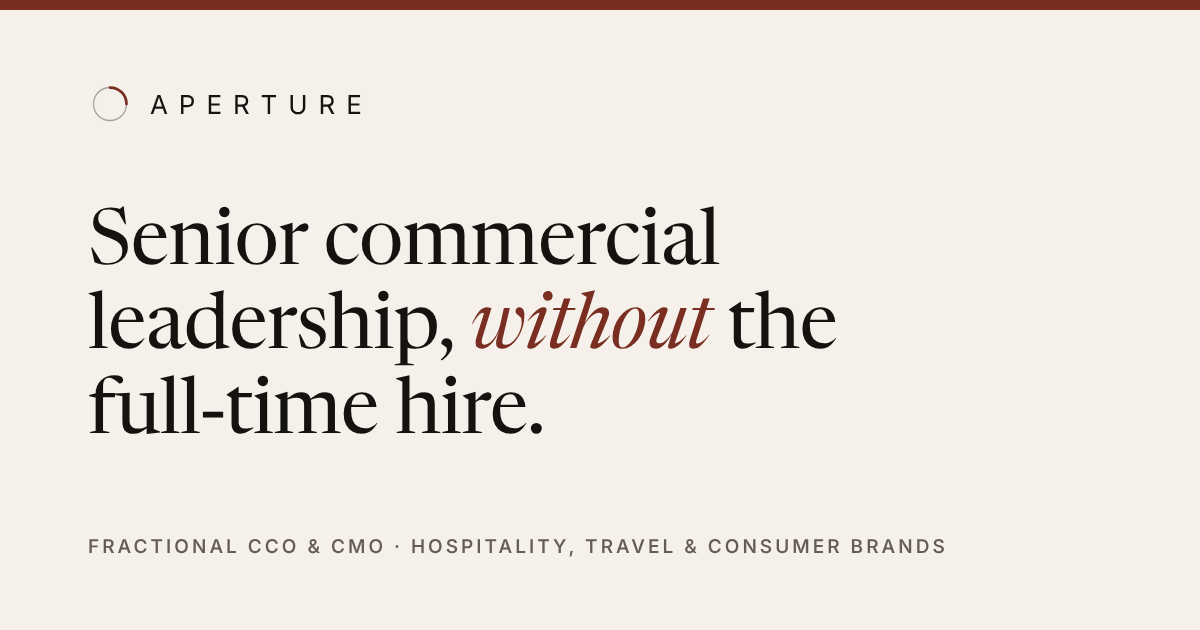
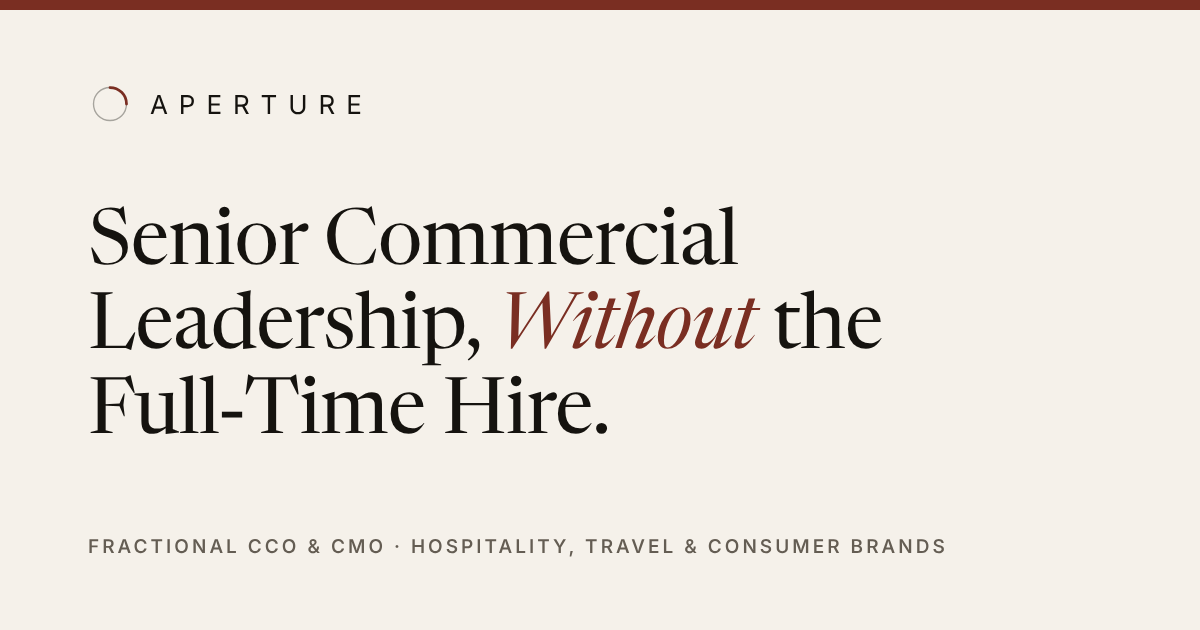
Title-case the hero headline and share image
Claude-Session: https://claude.ai/code/session_01RkhWHDrwQDbcSb66oaDfqG

Changed region(s): [[0.0617, 0.4524, 0.74, 0.6937], [0.2775, 0.3317, 0.6167, 0.4222]]

diff --git a/app/page.tsx b/app/page.tsx
@@ -124,7 +124,7 @@ export default function Home() {
             <div className="hero__copy">
               <p className="label label--accent">Fractional Commercial Leadership · Hospitality, Travel &amp; Consumer Brands</p>
               <h1 className="display">
-                Senior commercial leadership, <em>without</em> the full&#8209;time hire.
+                Senior Commercial Leadership, <em>Without</em> the Full&#8209;Time Hire.
               </h1>
               <p className="hero__sub">
                 I work with CEOs, founders and boards as a fractional Chief Commercial or Marketing Officer, bringing the
